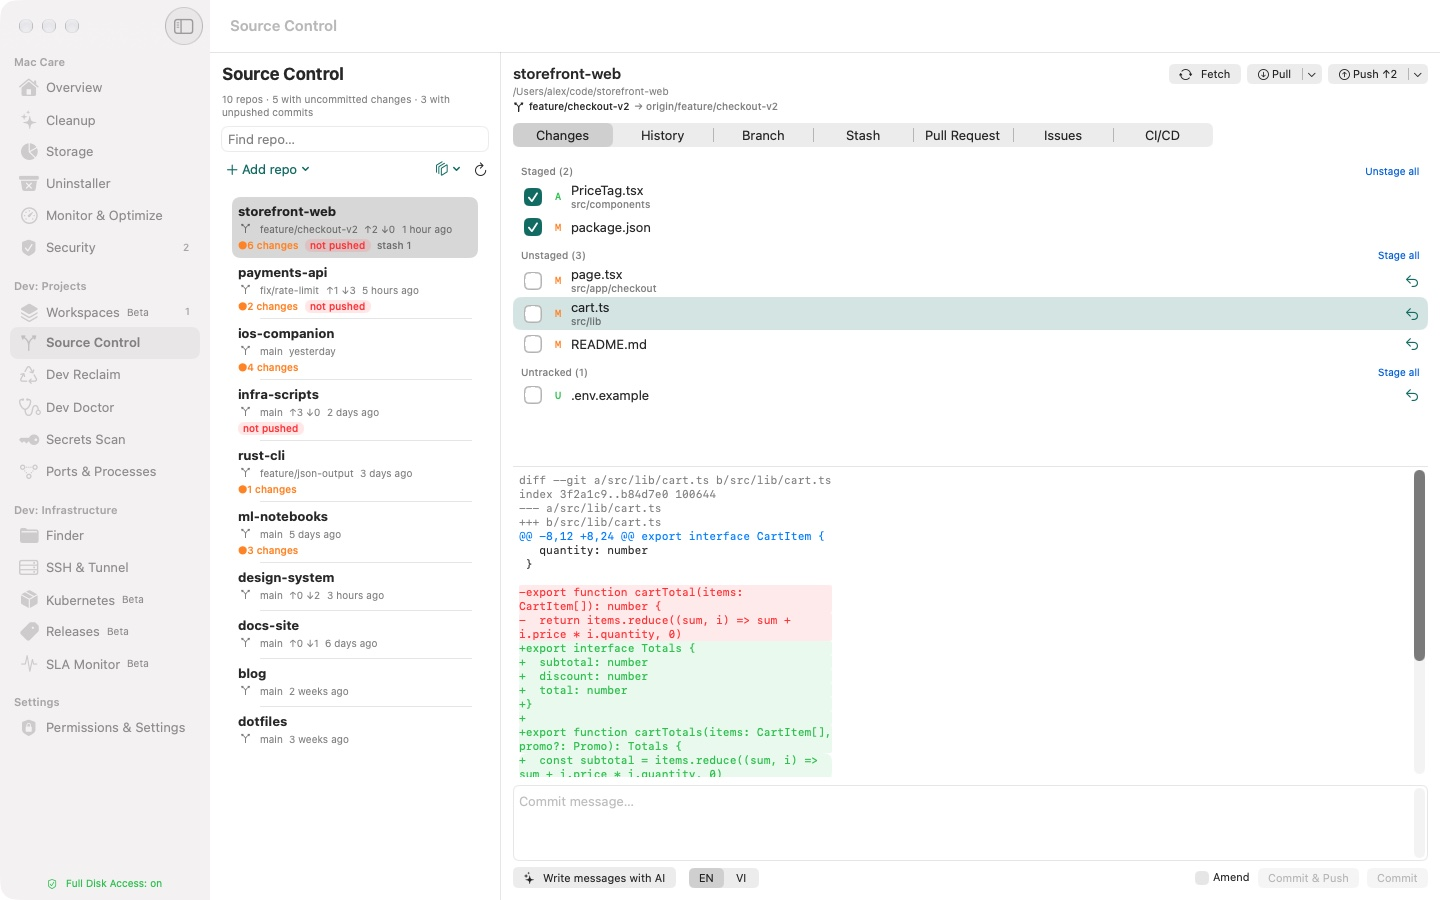
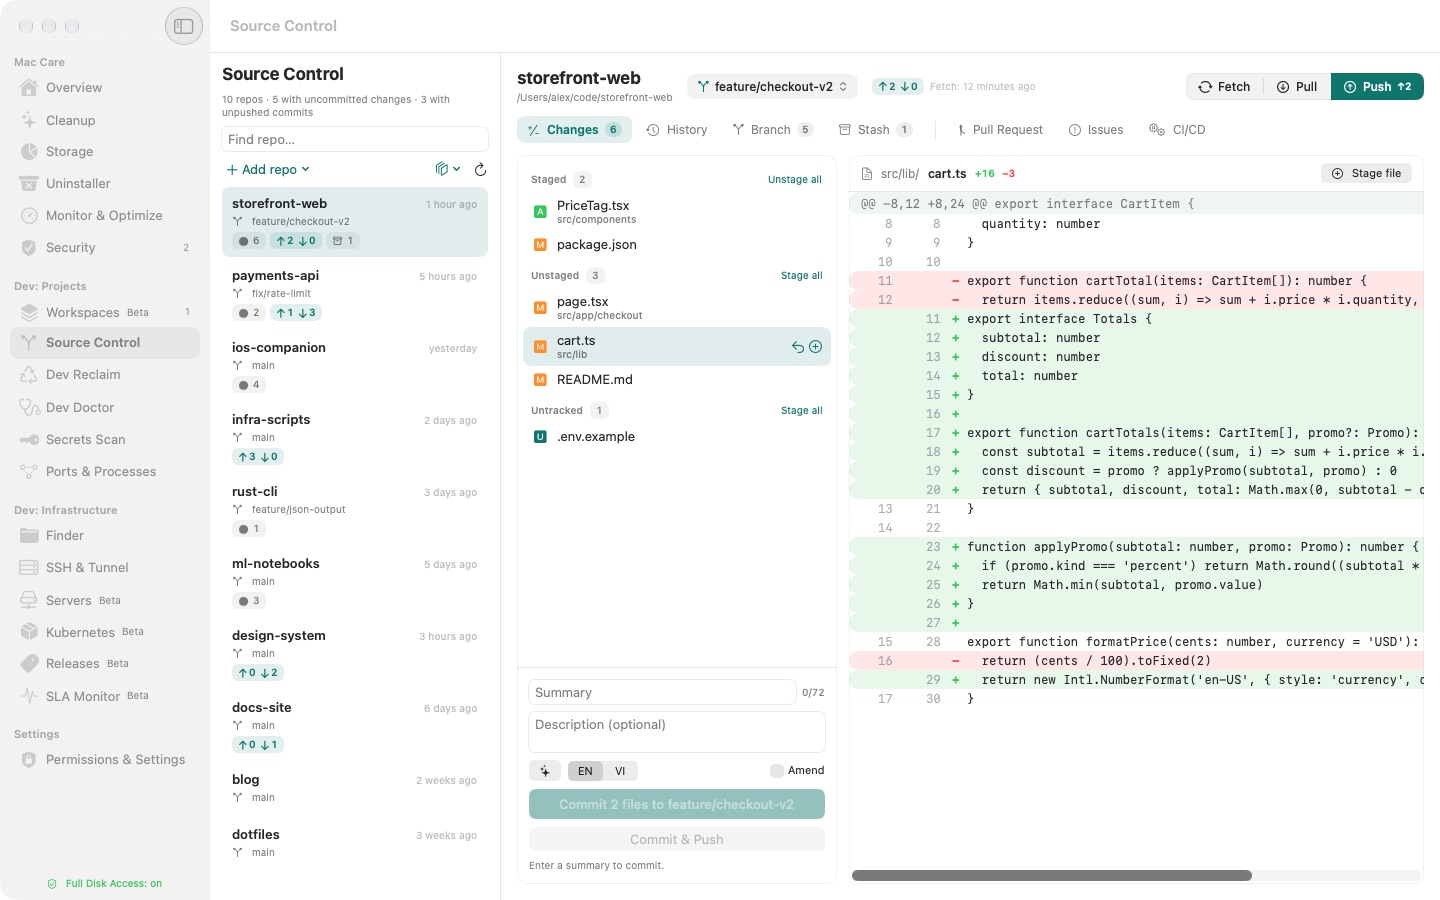
Update site

diff --git a/index.html b/index.html
@@ -225,15 +225,15 @@ footer a:hover{color:var(--text)}
 <section class="tour" id="tour">
   <div class="wrap">
     <h2 data-vi="Mọi thứ trong một cửa sổ.">Everything in one window.</h2>
-    <div class="tabs" role="tablist" aria-label="Screens"><button type="button" role="tab" id="tab-0" aria-controls="p-0" aria-selected="true" tabindex="0" data-vi="Tổng quan">Overview</button><button type="button" role="tab" id="tab-1" aria-controls="p-1" aria-selected="false" tabindex="-1" data-vi="Dọn dẹp">Cleanup</button><button type="button" role="tab" id="tab-2" aria-controls="p-2" aria-selected="false" tabindex="-1" data-vi="Dev Reclaim">Dev Reclaim</button><button type="button" role="tab" id="tab-3" aria-controls="p-3" aria-selected="false" tabindex="-1" data-vi="Cổng">Ports</button><button type="button" role="tab" id="tab-4" aria-controls="p-4" aria-selected="false" tabindex="-1" data-vi="Quét bí mật">Secrets Scan</button><button type="button" role="tab" id="tab-5" aria-controls="p-5" aria-selected="false" tabindex="-1" data-vi="Quản lý mã nguồn">Source Control</button><button type="button" role="tab" id="tab-6" aria-controls="p-6" aria-selected="false" tabindex="-1" data-vi="Dev Doctor">Dev Doctor</button><button type="button" role="tab" id="tab-7" aria-controls="p-7" aria-selected="false" tabindex="-1" data-vi="Workspace">Workspaces</button></div>
-    <div class="stage"><figure role="tabpanel" id="p-0" aria-labelledby="tab-0" class="panel on"><img class="shot" src="assets/win/home.jpg" width="1440" height="900" alt="The Calmdeck Overview showing disk usage and suggestions" data-alt-vi="Màn hình Tổng quan của Calmdeck hiển thị dung lượng và gợi ý"><figcaption data-vi="Toàn bộ chiếc Mac trong một cái nhìn, kèm bước tiếp theo rõ ràng.">Your whole Mac at a glance, with a clear next step.</figcaption></figure><figure role="tabpanel" id="p-1" aria-labelledby="tab-1" class="panel"><img class="shot" src="assets/win/junk.jpg" width="1440" height="900" loading="lazy" alt="The Cleanup screen listing caches and logs" data-alt-vi="Màn hình Dọn dẹp liệt kê cache và log"><figcaption data-vi="Cache và log sẽ tự tạo lại, mỗi mục đều có giải thích.">Caches and logs that regenerate, each one explained.</figcaption></figure><figure role="tabpanel" id="p-2" aria-labelledby="tab-2" class="panel"><img class="shot" src="assets/win/reclaim.jpg" width="1440" height="900" loading="lazy" alt="The Dev Reclaim screen listing idle projects" data-alt-vi="Màn hình Dev Reclaim liệt kê các dự án không dùng"><figcaption data-vi="Thư mục build cũ và phần thừa của Docker, nhóm theo dự án.">Old build folders and Docker leftovers, grouped by project.</figcaption></figure><figure role="tabpanel" id="p-3" aria-labelledby="tab-3" class="panel"><img class="shot" src="assets/win/ports.jpg" width="1440" height="900" loading="lazy" alt="The Ports &amp; Processes screen" data-alt-vi="Màn hình Cổng &amp; Tiến trình"><figcaption data-vi="Xem tiến trình nào đang nghe trên từng cổng và dự án nào đã chạy nó.">See what listens on each port and which project started it.</figcaption></figure><figure role="tabpanel" id="p-4" aria-labelledby="tab-4" class="panel"><img class="shot" src="assets/win/secrets.jpg" width="1440" height="900" loading="lazy" alt="The Secrets Scan screen with masked values" data-alt-vi="Màn hình Quét bí mật với giá trị được ẩn"><figcaption data-vi="Khoá tìm thấy trên ổ đĩa được ẩn đi, và khoá đã commit vào git được đánh dấu.">Keys found on disk are masked, and the ones committed to git are flagged.</figcaption></figure><figure role="tabpanel" id="p-5" aria-labelledby="tab-5" class="panel"><img class="shot" src="assets/win/source.jpg" width="1440" height="900" loading="lazy" alt="The Source Control screen" data-alt-vi="Màn hình Quản lý mã nguồn"><figcaption data-vi="Mọi repository trên máy của bạn, kèm diff và nhánh.">Every repository on your Mac, with diffs and branches.</figcaption></figure><figure role="tabpanel" id="p-6" aria-labelledby="tab-6" class="panel"><img class="shot" src="assets/win/doctor.jpg" width="1440" height="900" loading="lazy" alt="The Dev Doctor screen" data-alt-vi="Màn hình Dev Doctor"><figcaption data-vi="Kiểm tra toolchain, PATH, git và SSH, kèm hướng dẫn sửa dễ hiểu.">Toolchains, PATH, git and SSH checked, with plain-language fixes.</figcaption></figure><figure role="tabpanel" id="p-7" aria-labelledby="tab-7" class="panel"><img class="shot" src="assets/win/workspaces.jpg" width="1440" height="900" loading="lazy" alt="The Workspaces screen" data-alt-vi="Màn hình Workspaces"><figcaption data-vi="Khởi động mọi thứ một dự án cần chỉ với một cú nhấp.">Start everything a project needs with one click.</figcaption></figure></div>
+    <div class="tabs" role="tablist" aria-label="Screens"><button type="button" role="tab" id="tab-0" aria-controls="p-0" aria-selected="true" tabindex="0" data-vi="Tổng quan">Overview</button><button type="button" role="tab" id="tab-1" aria-controls="p-1" aria-selected="false" tabindex="-1" data-vi="Dọn dẹp">Cleanup</button><button type="button" role="tab" id="tab-2" aria-controls="p-2" aria-selected="false" tabindex="-1" data-vi="Dev Reclaim">Dev Reclaim</button><button type="button" role="tab" id="tab-3" aria-controls="p-3" aria-selected="false" tabindex="-1" data-vi="Cổng">Ports</button><button type="button" role="tab" id="tab-4" aria-controls="p-4" aria-selected="false" tabindex="-1" data-vi="Quét bí mật">Secrets Scan</button><button type="button" role="tab" id="tab-5" aria-controls="p-5" aria-selected="false" tabindex="-1" data-vi="Quản lý mã nguồn">Source Control</button><button type="button" role="tab" id="tab-8" aria-controls="p-8" aria-selected="false" tabindex="-1" data-vi="Máy chủ">Servers</button><button type="button" role="tab" id="tab-6" aria-controls="p-6" aria-selected="false" tabindex="-1" data-vi="Dev Doctor">Dev Doctor</button><button type="button" role="tab" id="tab-7" aria-controls="p-7" aria-selected="false" tabindex="-1" data-vi="Workspace">Workspaces</button></div>
+    <div class="stage"><figure role="tabpanel" id="p-0" aria-labelledby="tab-0" class="panel on"><img class="shot" src="assets/win/home.jpg" width="1440" height="900" alt="The Calmdeck Overview showing disk usage and suggestions" data-alt-vi="Màn hình Tổng quan của Calmdeck hiển thị dung lượng và gợi ý"><figcaption data-vi="Toàn bộ chiếc Mac trong một cái nhìn, kèm bước tiếp theo rõ ràng.">Your whole Mac at a glance, with a clear next step.</figcaption></figure><figure role="tabpanel" id="p-1" aria-labelledby="tab-1" class="panel"><img class="shot" src="assets/win/junk.jpg" width="1440" height="900" loading="lazy" alt="The Cleanup screen listing caches and logs" data-alt-vi="Màn hình Dọn dẹp liệt kê cache và log"><figcaption data-vi="Cache và log sẽ tự tạo lại, mỗi mục đều có giải thích.">Caches and logs that regenerate, each one explained.</figcaption></figure><figure role="tabpanel" id="p-2" aria-labelledby="tab-2" class="panel"><img class="shot" src="assets/win/reclaim.jpg" width="1440" height="900" loading="lazy" alt="The Dev Reclaim screen listing idle projects" data-alt-vi="Màn hình Dev Reclaim liệt kê các dự án không dùng"><figcaption data-vi="Thư mục build cũ và phần thừa của Docker, nhóm theo dự án.">Old build folders and Docker leftovers, grouped by project.</figcaption></figure><figure role="tabpanel" id="p-3" aria-labelledby="tab-3" class="panel"><img class="shot" src="assets/win/ports.jpg" width="1440" height="900" loading="lazy" alt="The Ports &amp; Processes screen" data-alt-vi="Màn hình Cổng &amp; Tiến trình"><figcaption data-vi="Xem tiến trình nào đang nghe trên từng cổng và dự án nào đã chạy nó.">See what listens on each port and which project started it.</figcaption></figure><figure role="tabpanel" id="p-4" aria-labelledby="tab-4" class="panel"><img class="shot" src="assets/win/secrets.jpg" width="1440" height="900" loading="lazy" alt="The Secrets Scan screen with masked values" data-alt-vi="Màn hình Quét bí mật với giá trị được ẩn"><figcaption data-vi="Khoá tìm thấy trên ổ đĩa được ẩn đi, và khoá đã commit vào git được đánh dấu.">Keys found on disk are masked, and the ones committed to git are flagged.</figcaption></figure><figure role="tabpanel" id="p-5" aria-labelledby="tab-5" class="panel"><img class="shot" src="assets/win/source.jpg" width="1440" height="900" loading="lazy" alt="The Source Control screen" data-alt-vi="Màn hình Quản lý mã nguồn"><figcaption data-vi="Mọi repository trên máy của bạn, kèm diff và nhánh.">Every repository on your Mac, with diffs and branches.</figcaption></figure><figure role="tabpanel" id="p-8" aria-labelledby="tab-8" class="panel"><img class="shot" src="assets/win/servers.jpg" width="1440" height="900" loading="lazy" alt="The Servers screen showing a live overview of a Linux server" data-alt-vi="Màn hình Máy chủ hiển thị tổng quan trực tiếp của một server Linux"><figcaption data-vi="Theo dõi và quản trị server Linux qua SSH, không cần cài gì lên server.">Watch and run your Linux servers over SSH, with nothing to install on them.</figcaption></figure><figure role="tabpanel" id="p-6" aria-labelledby="tab-6" class="panel"><img class="shot" src="assets/win/doctor.jpg" width="1440" height="900" loading="lazy" alt="The Dev Doctor screen" data-alt-vi="Màn hình Dev Doctor"><figcaption data-vi="Kiểm tra toolchain, PATH, git và SSH, kèm hướng dẫn sửa dễ hiểu.">Toolchains, PATH, git and SSH checked, with plain-language fixes.</figcaption></figure><figure role="tabpanel" id="p-7" aria-labelledby="tab-7" class="panel"><img class="shot" src="assets/win/workspaces.jpg" width="1440" height="900" loading="lazy" alt="The Workspaces screen" data-alt-vi="Màn hình Workspaces"><figcaption data-vi="Khởi động mọi thứ một dự án cần chỉ với một cú nhấp.">Start everything a project needs with one click.</figcaption></figure></div>
   </div>
 </section>
 
 <section class="features" id="features">
   <div class="wrap">
     <h2 data-vi="Được làm cho công việc hằng ngày của bạn.">Built for the work you do every day.</h2>
-    <ul><li><i class="ph ph-recycle" aria-hidden="true"></i><div><h3><span data-vi="Dev Reclaim">Dev Reclaim</span></h3><p data-vi="Xoá node_modules, thư mục build và phần thừa của Docker khỏi những dự án bạn không còn làm việc.">Removes node_modules, build folders and Docker leftovers from projects you no longer work on.</p></div></li><li><i class="ph ph-plugs" aria-hidden="true"></i><div><h3><span data-vi="Cổng &amp; Tiến trình">Ports &amp; Processes</span></h3><p data-vi="Cho biết tiến trình nào đang lắng nghe trên từng cổng và dự án nào đã khởi chạy nó.">Shows what listens on each port and which project started it.</p></div></li><li><i class="ph ph-key" aria-hidden="true"></i><div><h3><span data-vi="Quét bí mật">Secrets Scan</span></h3><p data-vi="Tìm khoá API và khoá riêng trên ổ đĩa, và đánh dấu những khoá đã bị commit vào git.">Finds API keys and private keys on disk, and flags the ones committed to git.</p></div></li><li><i class="ph ph-git-branch" aria-hidden="true"></i><div><h3><span data-vi="Quản lý mã nguồn">Source Control</span></h3><p data-vi="Mọi repository trên máy của bạn, cùng diff, commit và nhánh ở một nơi.">Every repository on your Mac, with diffs, commits and branches in one place.</p></div></li><li><i class="ph ph-stethoscope" aria-hidden="true"></i><div><h3><span data-vi="Dev Doctor">Dev Doctor</span></h3><p data-vi="Kiểm tra toolchain, PATH, git và SSH, rồi giải thích cần sửa gì.">Checks your toolchains, PATH, git and SSH setup, and explains what to fix.</p></div></li><li><i class="ph ph-command" aria-hidden="true"></i><div><h3><span data-vi="Bảng lệnh">Command Palette</span></h3><p data-vi="Nhấn ⌥⌘K ở bất cứ đâu để giải phóng một cổng, mở dự án hoặc kết nối SSH.">Press ⌥⌘K anywhere to free a port, open a project or connect over SSH.</p></div></li><li><i class="ph ph-stack" aria-hidden="true"></i><div><h3><span data-vi="Workspace">Workspaces</span> <small class="beta" data-vi="Beta">Beta</small></h3><p data-vi="Khởi động tunnel, container và dev server mà một dự án cần chỉ với một cú nhấp.">Start the tunnels, containers and dev server a project needs with one click.</p></div></li><li><i class="ph ph-broom" aria-hidden="true"></i><div><h3><span data-vi="Dọn dẹp">Cleanup</span></h3><p data-vi="Dọn cache và log sẽ tự tạo lại, và giải thích từng mục trước khi xoá.">Clears caches and logs that regenerate, and explains each one before it goes.</p></div></li></ul>
+    <ul><li><i class="ph ph-recycle" aria-hidden="true"></i><div><h3><span data-vi="Dev Reclaim">Dev Reclaim</span></h3><p data-vi="Xoá node_modules, thư mục build và phần thừa của Docker khỏi những dự án bạn không còn làm việc.">Removes node_modules, build folders and Docker leftovers from projects you no longer work on.</p></div></li><li><i class="ph ph-plugs" aria-hidden="true"></i><div><h3><span data-vi="Cổng &amp; Tiến trình">Ports &amp; Processes</span></h3><p data-vi="Cho biết tiến trình nào đang lắng nghe trên từng cổng và dự án nào đã khởi chạy nó.">Shows what listens on each port and which project started it.</p></div></li><li><i class="ph ph-key" aria-hidden="true"></i><div><h3><span data-vi="Quét bí mật">Secrets Scan</span></h3><p data-vi="Tìm khoá API và khoá riêng trên ổ đĩa, và đánh dấu những khoá đã bị commit vào git.">Finds API keys and private keys on disk, and flags the ones committed to git.</p></div></li><li><i class="ph ph-git-branch" aria-hidden="true"></i><div><h3><span data-vi="Quản lý mã nguồn">Source Control</span></h3><p data-vi="Mọi repository trên máy của bạn, cùng diff, commit và nhánh ở một nơi.">Every repository on your Mac, with diffs, commits and branches in one place.</p></div></li><li><i class="ph ph-hard-drives" aria-hidden="true"></i><div><h3><span data-vi="Máy chủ">Servers</span> <small class="beta" data-vi="Beta">Beta</small></h3><p data-vi="Dịch vụ, gói, Docker, site nginx và nhật ký trên server Linux qua SSH. Mọi thay đổi đều hiện đúng lệnh trước khi chạy, cấu hình lỗi thì tự khôi phục.">Services, packages, Docker, nginx sites and logs on your Linux servers over SSH. Every change shows the exact command first, and a bad config rolls back on its own.</p></div></li><li><i class="ph ph-stethoscope" aria-hidden="true"></i><div><h3><span data-vi="Dev Doctor">Dev Doctor</span></h3><p data-vi="Kiểm tra toolchain, PATH, git và SSH, rồi giải thích cần sửa gì.">Checks your toolchains, PATH, git and SSH setup, and explains what to fix.</p></div></li><li><i class="ph ph-command" aria-hidden="true"></i><div><h3><span data-vi="Bảng lệnh">Command Palette</span></h3><p data-vi="Nhấn ⌥⌘K ở bất cứ đâu để giải phóng một cổng, mở dự án hoặc kết nối SSH.">Press ⌥⌘K anywhere to free a port, open a project or connect over SSH.</p></div></li><li><i class="ph ph-stack" aria-hidden="true"></i><div><h3><span data-vi="Workspace">Workspaces</span> <small class="beta" data-vi="Beta">Beta</small></h3><p data-vi="Khởi động tunnel, container và dev server mà một dự án cần chỉ với một cú nhấp.">Start the tunnels, containers and dev server a project needs with one click.</p></div></li><li><i class="ph ph-broom" aria-hidden="true"></i><div><h3><span data-vi="Dọn dẹp">Cleanup</span></h3><p data-vi="Dọn cache và log sẽ tự tạo lại, và giải thích từng mục trước khi xoá.">Clears caches and logs that regenerate, and explains each one before it goes.</p></div></li></ul>
   </div>
 </section>
 
@@ -323,7 +323,7 @@ const CONFIG = {
   seatURL: "#buy",
   contactEmail: "anduy0508@gmail.com",
   vnCheckout: false,
-  version: "1.4"
+  version: "1.5"
 };
 
 /* ---------- CTA wiring ---------- */

diff --git a/changelog.html b/changelog.html
@@ -37,7 +37,7 @@ p.m{color:var(--faint);font-size:14px;margin-top:12px}
 <body data-vi="Có gì mới">
 <header><nav><a class="brand" href="index.html"><img src="assets/icon.png" width="24" height="24" alt=""><span>Calmdeck</span></a><a class="back" href="index.html" data-t>Back to Calmdeck</a></nav></header>
 <main>
-<div class="en"><h1>What's new</h1><h2>1.3<small>November 2026</small></h2><p><strong>Calm interface.</strong> A quieter, more minimal look across the whole app.</p><h2>1.2.1<small>November 2026</small></h2><p><strong>Port numbers fix.</strong> Port and process ID numbers no longer show grouping separators.</p><h2>1.2<small>November 2026</small></h2><p><strong>English and licensing.</strong> The interface is now available in English as well as Vietnamese, and Pro licensing was added.</p><h2>1.1<small>November 2026</small></h2><p><strong>First dev release.</strong> The first release for developers: cleanup, Dev Reclaim and local Git.</p></div><div class="vi"><h1>Có gì mới</h1><h2>1.3<small>Tháng 11/2026</small></h2><p><strong>Giao diện dịu.</strong> Diện mạo yên tĩnh, tối giản hơn trên toàn ứng dụng.</p><h2>1.2.1<small>Tháng 11/2026</small></h2><p><strong>Sửa số cổng.</strong> Số cổng và ID tiến trình không còn dấu phân cách hàng nghìn.</p><h2>1.2<small>Tháng 11/2026</small></h2><p><strong>Tiếng Anh và bản quyền.</strong> Giao diện có thêm tiếng Anh bên cạnh tiếng Việt, và thêm bản quyền Pro.</p><h2>1.1<small>Tháng 11/2026</small></h2><p><strong>Bản đầu cho dev.</strong> Bản phát hành đầu tiên cho lập trình viên: dọn dẹp, Dev Reclaim và Git cục bộ.</p></div>
+<div class="en"><h1>What's new</h1><h2>1.5<small>November 2026</small></h2><p><strong>Servers.</strong> Manage Linux servers over SSH with nothing to install on them: live overview, systemd services, processes, packages, Docker, nginx sites with a safe test-and-rollback editor, logs and git apps. Windows servers get overview, services, processes and event logs (beta).</p><p><strong>Source Control redesign.</strong> Lighter repo list, branch menu, a proper diff viewer with line numbers, a docked commit composer and history with authors.</p><h2>1.4<small>November 2026</small></h2><p><strong>MacCleaner is now Calmdeck.</strong> New name and identity, update check, Send Feedback and Report a Bug.</p><h2>1.3<small>November 2026</small></h2><p><strong>Calm interface.</strong> A quieter, more minimal look across the whole app.</p><h2>1.2.1<small>November 2026</small></h2><p><strong>Port numbers fix.</strong> Port and process ID numbers no longer show grouping separators.</p><h2>1.2<small>November 2026</small></h2><p><strong>English and licensing.</strong> The interface is now available in English as well as Vietnamese, and Pro licensing was added.</p><h2>1.1<small>November 2026</small></h2><p><strong>First dev release.</strong> The first release for developers: cleanup, Dev Reclaim and local Git.</p></div><div class="vi"><h1>Có gì mới</h1><h2>1.5<small>Tháng 11/2026</small></h2><p><strong>Máy chủ.</strong> Quản trị server Linux qua SSH, không cần cài gì lên server: tổng quan trực tiếp, dịch vụ systemd, tiến trình, gói, Docker, site nginx với trình sửa có kiểm tra và tự khôi phục, nhật ký và ứng dụng git. Server Windows có tổng quan, dịch vụ, tiến trình và Event Log (beta).</p><p><strong>Mã nguồn làm mới.</strong> Danh sách repo nhẹ hơn, menu nhánh, trình xem diff có số dòng, ô commit gọn và lịch sử có tác giả.</p><h2>1.4<small>Tháng 11/2026</small></h2><p><strong>MacCleaner giờ là Calmdeck.</strong> Tên mới, tự kiểm tra cập nhật, Gửi phản hồi và Báo lỗi.</p><h2>1.3<small>Tháng 11/2026</small></h2><p><strong>Giao diện dịu.</strong> Diện mạo yên tĩnh, tối giản hơn trên toàn ứng dụng.</p><h2>1.2.1<small>Tháng 11/2026</small></h2><p><strong>Sửa số cổng.</strong> Số cổng và ID tiến trình không còn dấu phân cách hàng nghìn.</p><h2>1.2<small>Tháng 11/2026</small></h2><p><strong>Tiếng Anh và bản quyền.</strong> Giao diện có thêm tiếng Anh bên cạnh tiếng Việt, và thêm bản quyền Pro.</p><h2>1.1<small>Tháng 11/2026</small></h2><p><strong>Bản đầu cho dev.</strong> Bản phát hành đầu tiên cho lập trình viên: dọn dẹp, Dev Reclaim và Git cục bộ.</p></div>
 </main>
 <script>
 (function(){var l="en",s=null;try{s=localStorage.getItem("mc-lang")}catch(e){}
